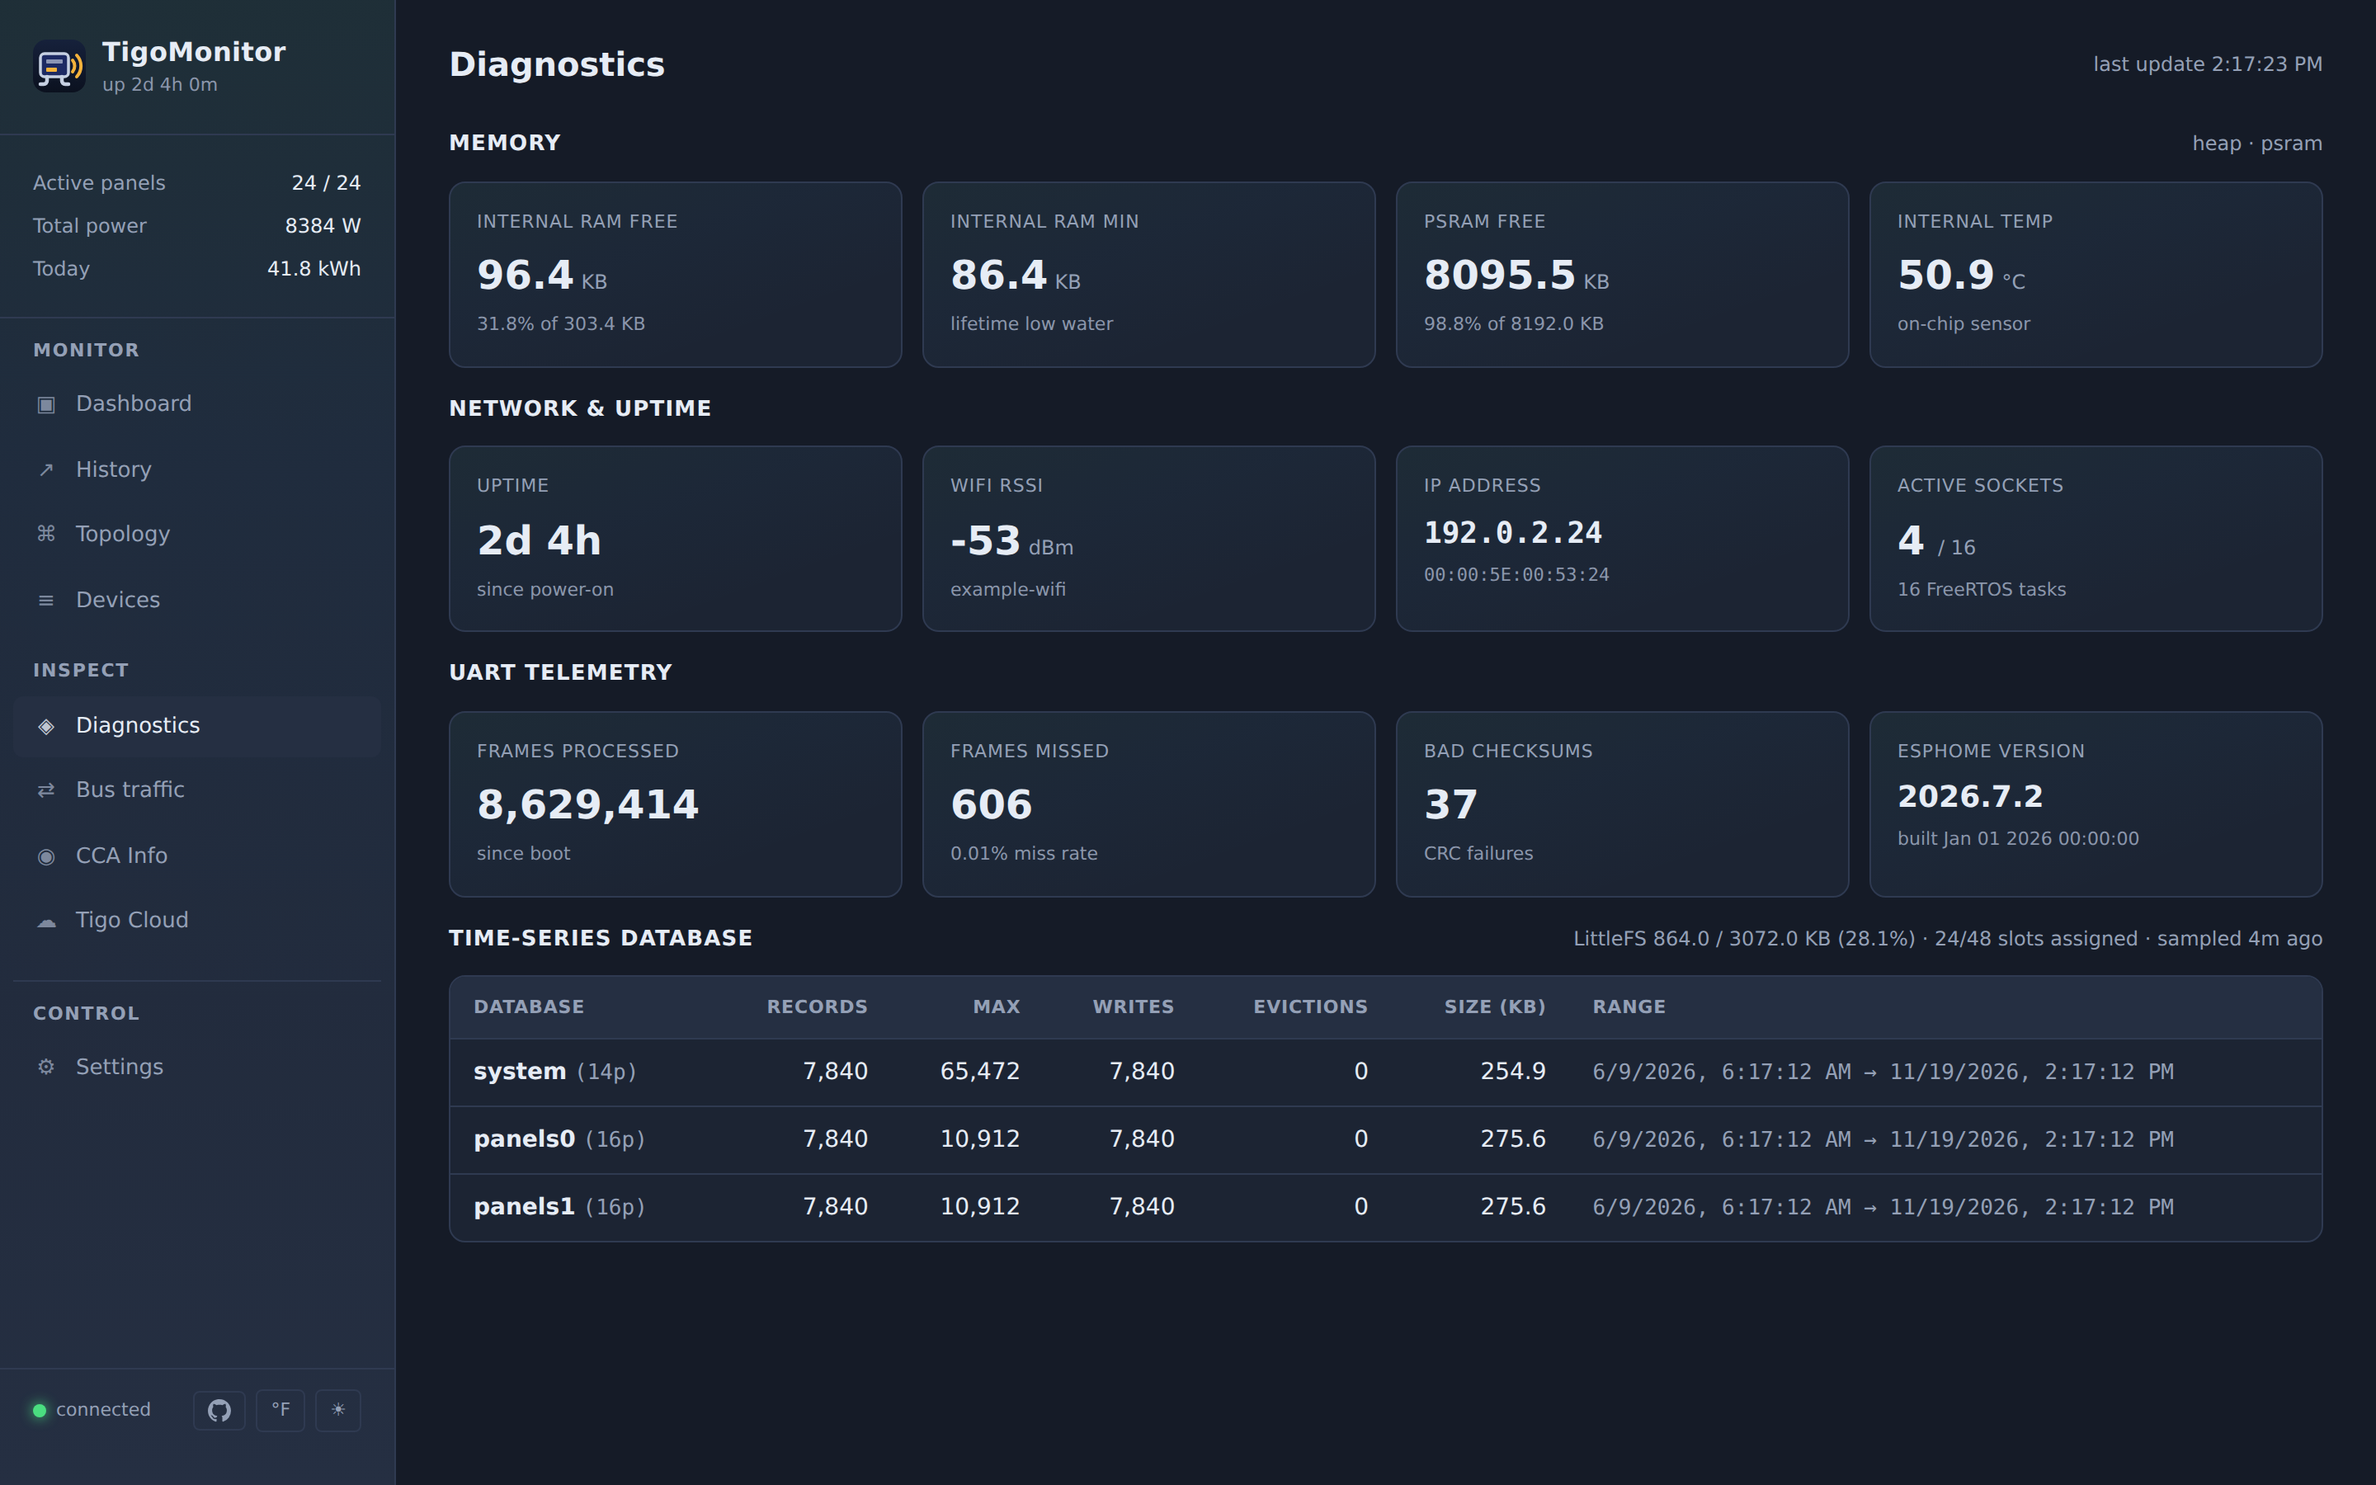
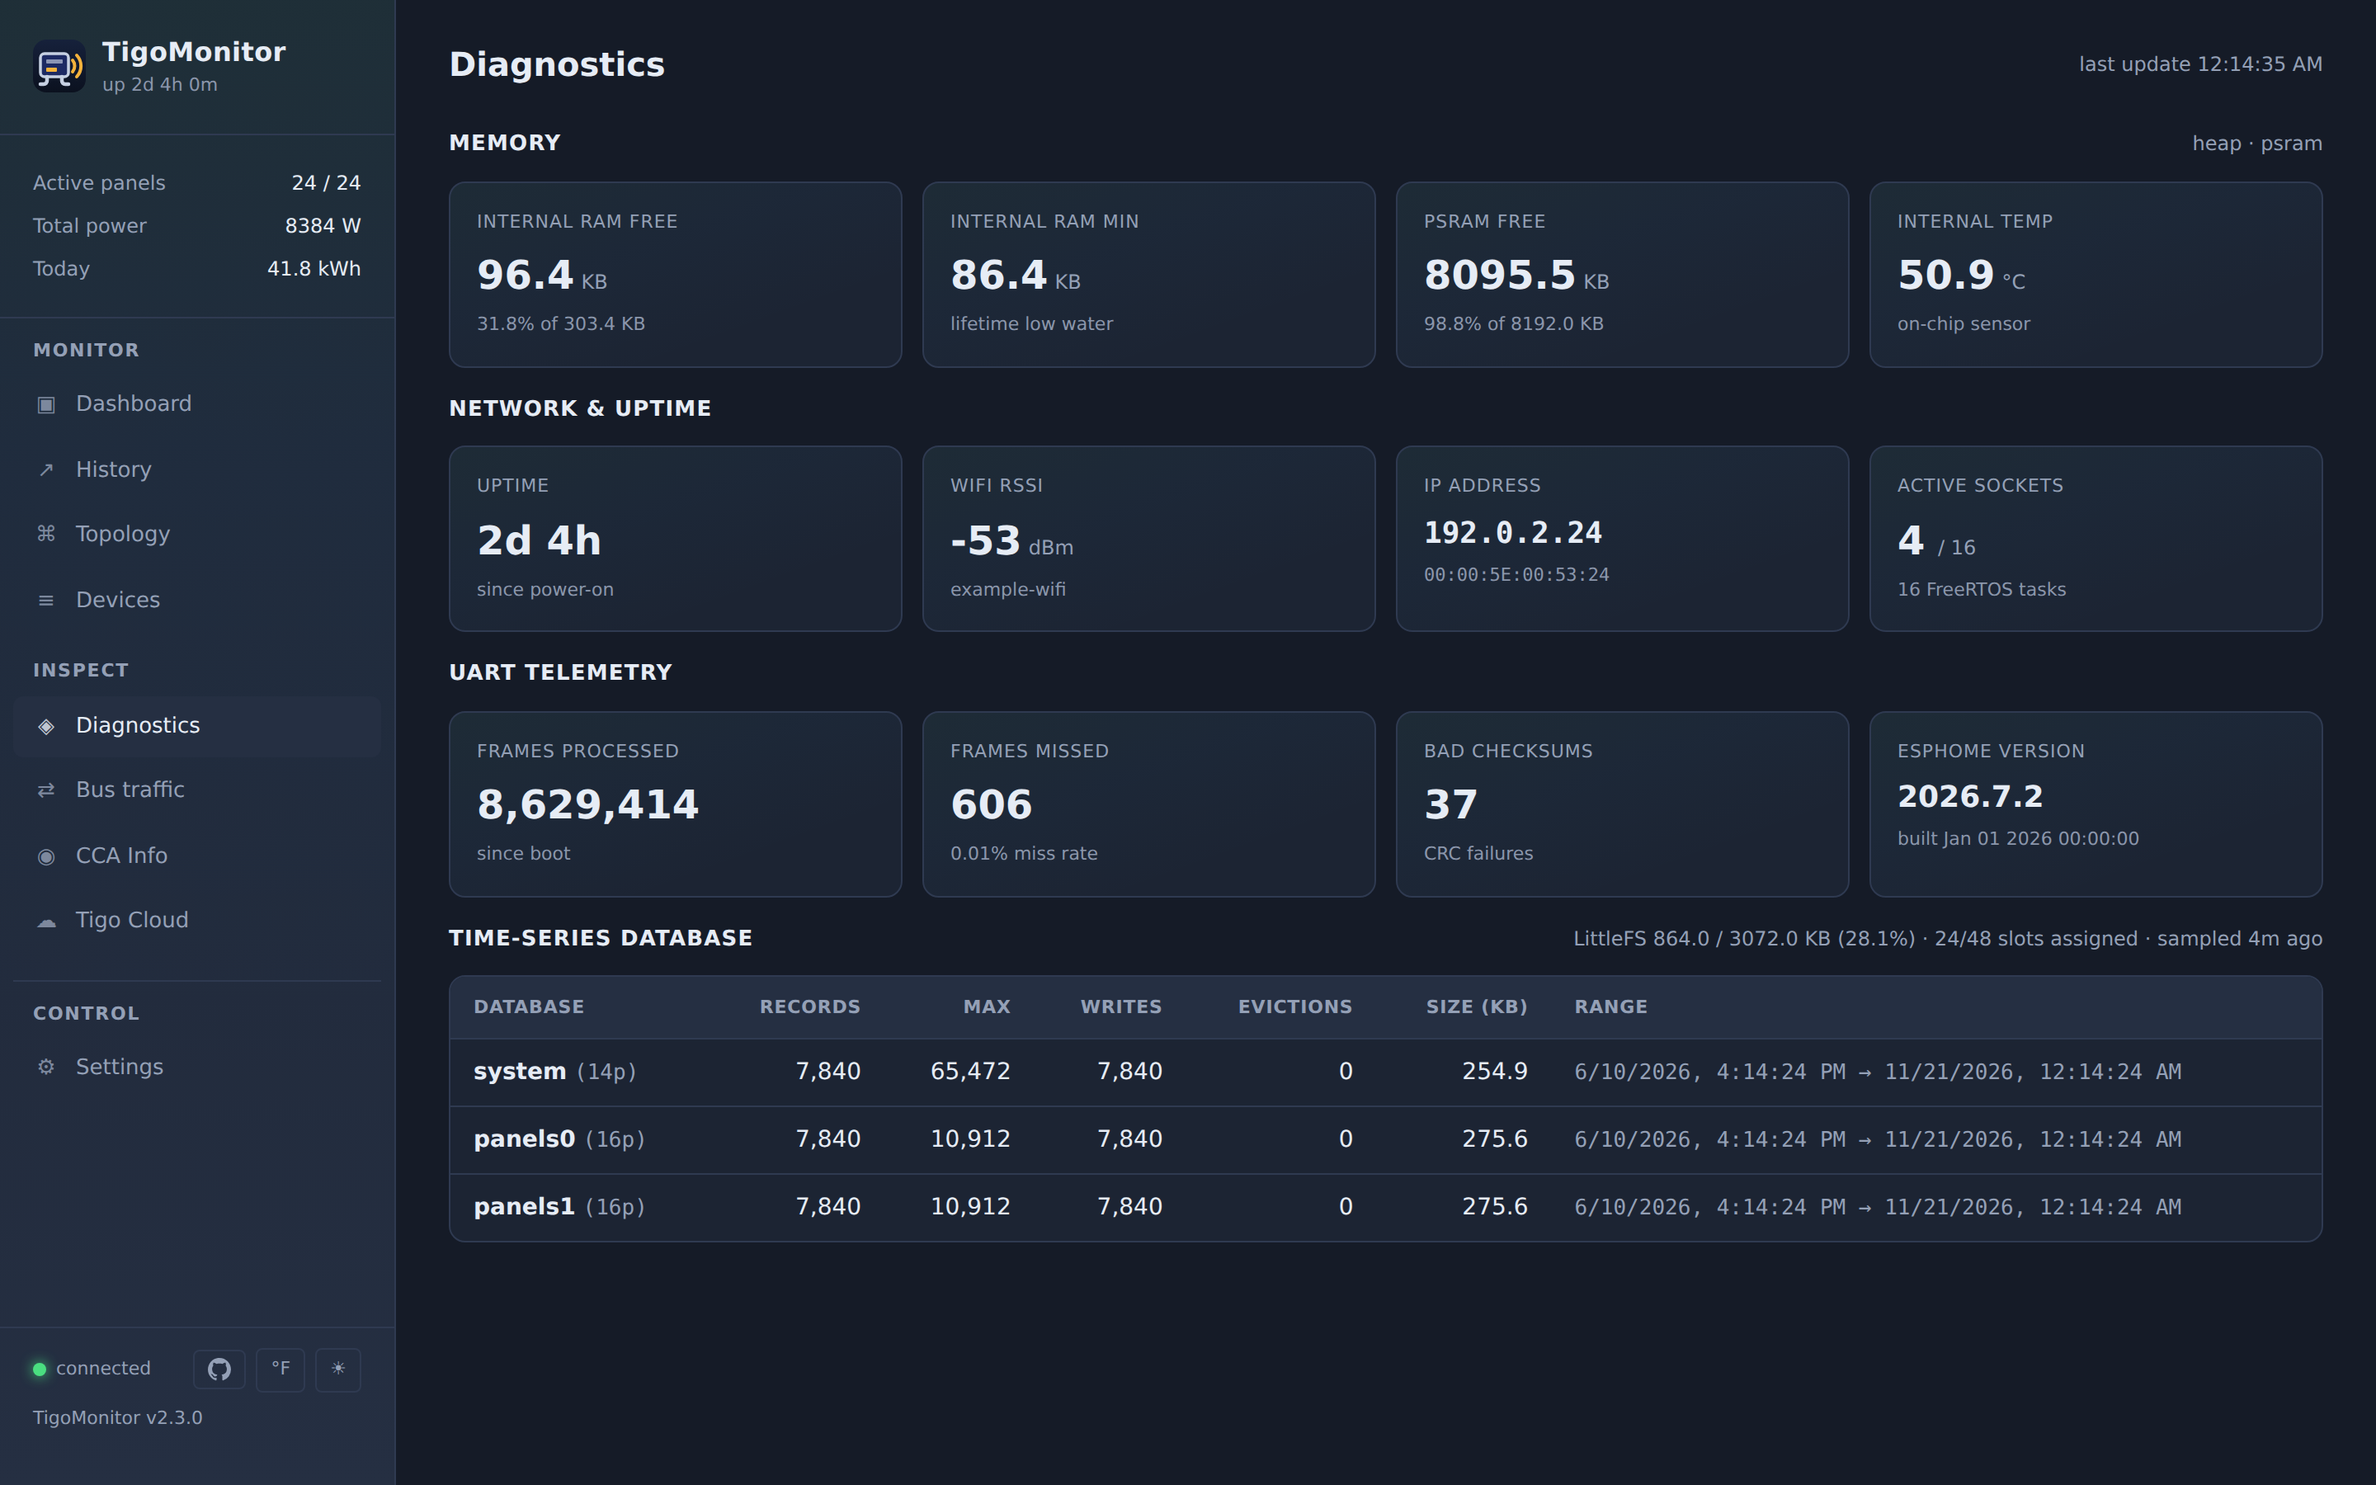
feat(web): show TigoMonitor's version in the sidebar, on the ESP32 too
The sidebar now shows "TigoMonitor v2.3.0" under the connection row,
and a release links to its notes. The Pi knew its version (CI's git
describe); the ESP32 knew only ESPHome's, and kept no version of its
own by design: the tag is the version.

The ESP32 now works it out at compile time (tigo_server/
build_version.py). git describe works in a full checkout (a local
path: source), written as the Pi's CI writes it (2.3.0+1.g8632d50,
+local when dirty). ESPHome fetches a git source as a shallow clone
with no tags, so there describe fails and the version is the ref the
config pinned (v2.3.0 -> 2.3.0), or the ref and the commit it fetched
(main · 8632d50). It's only read from this repo's own git, never from
a config repo the files were copied into, and stripped to
[A-Za-z0-9._+/-] before it reaches the JSON. Both builds report it as
tigomonitor_version in /api/status; esphome_version is unchanged.

Verified:
- build_version_test (11 cases) failed before build_version.py existed
  and passes; build.sh runs it, and the Pi build and every host test
  pass in the dev container.
- Site tests 269/269, three new: a release linked on both builds, a
  branch or between-release build unlinked, and no line when the
  firmware reports none. They were written after the page change.
- The rig config compiles; the generated code sets "2.3.0+local".
- Screenshots refreshed; the sidebar reads "TigoMonitor v2.3.0".
Not yet: a compile from a git source (pending the push), or a flash.

diff --git a/components/tigo_server/web/app.html b/components/tigo_server/web/app.html
@@ -139,6 +139,10 @@
 
   .conn { padding: 12px 20px; border-top: 1px solid var(--border); font-size: 11px; color: var(--text-dim); display: flex; justify-content: space-between; align-items: center; }
   .pill { display: inline-flex; align-items: center; gap: 6px; }
+  /* TigoMonitor's version, under the connection row: a release links to its notes. */
+  .app-version { padding: 0 20px 12px; margin-top: -4px; font-size: 11px; color: var(--text-dim); font-variant-numeric: tabular-nums; }
+  .app-version a { color: inherit; text-decoration: none; }
+  .app-version a:hover, .app-version a:focus-visible { color: var(--text); text-decoration: underline; }
   /* The sidebar's PV output state, on every page. Off is the state that must
      be noticed: it turns red and its dot pulses. */
   .pv-pill { display: flex; align-items: center; gap: 9px; margin: 8px 12px; padding: 8px 10px 8px 12px;
@@ -1540,6 +1544,7 @@
         <button class="theme-toggle" id="theme-toggle" title="Toggle light/dark">☀</button>
       </span>
     </div>
+    <div class="app-version" id="app-version" hidden></div>
   </aside>
 
   <!-- ===== Main content ===== -->
@@ -3351,9 +3356,32 @@
   }
   setInterval(refreshDashboard, 5000);
 
+  // TigoMonitor's version under the sidebar's connection row: "2.3.0" from a
+  // release (linked to its notes), "2.3.0+1.g8632d50" between releases, or a
+  // branch and commit ("main · 8632d50") on an ESP32 built from one.
+  function showAppVersion(v) {
+    const el = document.getElementById('app-version');
+    if (!v) return;
+    const shown = /^\d/.test(v) ? `v${v}` : v;
+    el.textContent = 'TigoMonitor ';
+    if (/^\d+\.\d+\.\d+(-[0-9A-Za-z.]+)?$/.test(v)) {
+      const a = document.createElement('a');
+      a.href = `https://github.com/RAR/esphome-tigomonitor/releases/tag/v${v}`;
+      a.target = '_blank';
+      a.rel = 'noopener';
+      a.title = 'Release notes';
+      a.textContent = shown;
+      el.append(a);
+    } else {
+      el.append(shown);
+    }
+    el.hidden = false;
+  }
+
   // Once the platform is known (below), the Pi's and the ESP32's pages
   // differ: swap the ESP32-only Settings tabs for the Pi's.
   const platformReady = apiFetch('/api/status').then(r => r.ok ? r.json() : {}).then(s => {
+    showAppVersion(s.tigomonitor_version);
     if (s.platform !== 'linux') return;
     PLATFORM = 'linux';
     apiFetch('/api/settings').then(r => r.ok ? r.json() : null).then(st => { if (st) piApplyPages(st); }).catch(() => {});

diff --git a/components/tigo_server/build_version.py b/components/tigo_server/build_version.py
@@ -1,0 +1,65 @@
+"""TigoMonitor's version for the ESP32 firmware, worked out at compile time.
+
+The Pi's daemon is built from a full checkout, so CI takes `git describe`
+(2.3.0, or 2.3.0+1.g8632d50 between releases). ESPHome fetches a git
+external component as a shallow clone with no tags, so describe fails there.
+Then the version is the `ref:` the config pinned (v2.3.0), or the ref and
+the commit it fetched (main · 8632d50). A local `path:` checkout describes
+like the Pi. Nothing is bumped at release time: the tag is the version.
+"""
+import re
+import subprocess
+from pathlib import Path
+
+# What the version may carry into the JSON and the page.
+_SAFE = re.compile(r"[^A-Za-z0-9._+/-]")
+_DESCRIBE = re.compile(r"v?(?P<tag>.+?)(?:-(?P<n>\d+)-g(?P<sha>[0-9a-f]+))?(?P<dirty>-dirty)?")
+_RELEASE = re.compile(r"v?\d+\.\d+\.\d+\S*")
+
+
+def version_from(describe, ref, sha):
+    """describe: `git describe --tags --dirty` (None if it failed); ref: the
+    external_components ref (None for a local path); sha: the short commit."""
+    if describe:
+        m = _DESCRIBE.fullmatch(describe.strip())
+        v = m.group("tag")
+        if m.group("n"):
+            v += f"+{m.group('n')}.g{m.group('sha')}"
+        if m.group("dirty"):
+            v += "+local"
+        return _SAFE.sub("", v)
+    ref = _SAFE.sub("", ref or "")
+    sha = _SAFE.sub("", sha or "")
+    if ref and _RELEASE.fullmatch(ref):
+        return ref[1:] if ref.startswith("v") else ref
+    if ref and sha:
+        return f"{ref} · {sha}"
+    return ref or sha
+
+
+def _git(root, *args):
+    try:
+        r = subprocess.run(["git", "-C", str(root), *args], capture_output=True, text=True, timeout=10)
+    except (OSError, subprocess.SubprocessError):
+        return None
+    return r.stdout.strip() if r.returncode == 0 and r.stdout.strip() else None
+
+
+def _our_ref(config):
+    """The ref of the external_components entry that fetched this repo."""
+    for entry in config.get("external_components", []) or []:
+        source = entry.get("source") or {}
+        if source.get("type") == "git" and "tigomonitor" in str(source.get("url", "")):
+            return source.get("ref")
+    return None
+
+
+def version(config):
+    """The version string for this build, or "" if it can't be told."""
+    root = Path(__file__).resolve().parents[2]  # <repo>/components/tigo_server/
+    top = _git(root, "rev-parse", "--show-toplevel")
+    # Only this repo's own git: not a config repo the files were copied into.
+    if top is None or Path(top).resolve() != root:
+        return version_from(None, _our_ref(config), None)
+    return version_from(_git(root, "describe", "--tags", "--dirty"), _our_ref(config),
+                        _git(root, "rev-parse", "--short", "HEAD"))

diff --git a/tests/host/build_version_test.py b/tests/host/build_version_test.py
@@ -1,0 +1,37 @@
+"""The ESP32's TigoMonitor version, as components/tigo_server/build_version.py
+works it out at compile time. Run: python3 -I tests/host/build_version_test.py"""
+import importlib.util
+import pathlib
+import sys
+
+root = pathlib.Path(__file__).resolve().parents[2]
+spec = importlib.util.spec_from_file_location("build_version", root / "components/tigo_server/build_version.py")
+bv = importlib.util.module_from_spec(spec)
+spec.loader.exec_module(bv)
+
+cases = [
+    # A full checkout: git describe, written as the Pi's CI writes it.
+    (("v2.3.0", None, None), "2.3.0"),
+    (("v2.3.0-1-g8632d50", None, None), "2.3.0+1.g8632d50"),
+    (("v2.3.0-1-g8632d50-dirty", None, None), "2.3.0+1.g8632d50+local"),
+    (("v2.0.0-rc.1-3-gabc1234", None, None), "2.0.0-rc.1+3.gabc1234"),
+    # ESPHome's shallow clone has no tags: the external_components ref.
+    ((None, "v2.3.0", "8632d50"), "2.3.0"),
+    ((None, "2.3.0", "8632d50"), "2.3.0"),
+    ((None, "main", "8632d50"), "main · 8632d50"),
+    ((None, "feature/x", "8632d50"), "feature/x · 8632d50"),
+    # A ref with characters the JSON and the page shouldn't carry.
+    ((None, 'ma"in<b>', "8632d50"), "mainb · 8632d50"),
+    ((None, None, "8632d50"), "8632d50"),
+    ((None, None, None), ""),
+]
+
+failed = 0
+for args, want in cases:
+    got = bv.version_from(*args)
+    if got != want:
+        failed += 1
+        print(f"FAIL version_from{args!r}: got {got!r}, want {want!r}")
+if failed:
+    sys.exit(1)
+print(f"build_version_test: all passed ({len(cases)})")

diff --git a/components/tigo_server/tigo_web_server.cpp b/components/tigo_server/tigo_web_server.cpp
@@ -3719,7 +3719,7 @@ void TigoWebServer::build_esp_status_json(PSRAMString& json) {
     "{\"free_heap\":%zu,\"total_heap\":%zu,\"free_psram\":%zu,\"total_psram\":%zu,"
     "\"min_free_heap\":%zu,\"min_free_psram\":%zu,"
     "\"uptime_sec\":%u,\"uptime_days\":%u,\"uptime_hours\":%u,\"uptime_mins\":%u,"
-    "\"esphome_version\":\"%s\",\"compilation_time\":\"%s %s\","
+    "\"tigomonitor_version\":\"%s\",\"esphome_version\":\"%s\",\"compilation_time\":\"%s %s\","
     "\"task_count\":%u,\"internal_temp\":%s,"
     "\"invalid_checksum\":%u,\"missed_frames\":%u,\"total_frames\":%u,"
     "\"command_frames\":%u,\"frame_27_count\":%u,"
@@ -3728,7 +3728,7 @@ void TigoWebServer::build_esp_status_json(PSRAMString& json) {
     free_heap, total_heap, free_psram, total_psram,
     min_free_heap, min_free_psram,
     (unsigned) uptime_sec, (unsigned) uptime_days, (unsigned) uptime_hours, (unsigned) uptime_mins,
-    ESPHOME_VERSION, __DATE__, __TIME__,
+    version_, ESPHOME_VERSION, __DATE__, __TIME__,
     (unsigned int)task_count, temp_str,
     (unsigned) invalid_checksum, (unsigned) missed_frames, (unsigned) total_frames,
     (unsigned) command_frames, (unsigned) frame_27_count,

diff --git a/components/tigo_server/tigo_web_server.h b/components/tigo_server/tigo_web_server.h
@@ -126,6 +126,8 @@ class TigoWebServer : public Component
   float get_setup_priority() const override { return setup_priority::WIFI - 1.0f; }
   
   void set_port(uint16_t port) { port_ = port; }
+  // TigoMonitor's version (tigo_server/build_version.py), "" if unknown.
+  void set_version(const char *version) { version_ = version; }
   uint16_t get_port() const { return port_; }
   
   void set_api_token(const std::string &token) { api_token_ = token; }
@@ -142,6 +144,7 @@ class TigoWebServer : public Component
   light::LightState *backlight_{nullptr};
   httpd_handle_t server_{nullptr};
   uint16_t port_{80};
+  const char *version_{""};
   std::string api_token_{""};
   std::string web_username_{""};
   std::string web_password_{""};

diff --git a/components/tigo_server/__init__.py b/components/tigo_server/__init__.py
@@ -246,6 +246,12 @@ async def to_code(config):
     # Set the port
     cg.add(var.set_port(config[CONF_PORT]))
 
+    # TigoMonitor's own version, for the page's sidebar (build_version.py):
+    # the git tag or ref this build came from. ESPHome's own version stays
+    # in /api/status as esphome_version.
+    from . import build_version
+    cg.add(var.set_version(build_version.version(CORE.config)))
+
     # Set the API token if provided
     if CONF_API_TOKEN in config:
         cg.add(var.set_api_token(config[CONF_API_TOKEN]))

diff --git a/linux/src/http_server.cpp b/linux/src/http_server.cpp
@@ -1330,6 +1330,7 @@ void HttpServer::routes_() {
                     {"uptime_days", up / 86400},
                     {"uptime_hours", (up / 3600) % 24},
                     {"uptime_mins", (up / 60) % 60},
+                    {"tigomonitor_version", ctx_.version},
                     {"esphome_version", "tigomonitord " + ctx_.version},
                     {"compilation_time", __DATE__ " " __TIME__},
                     {"internal_temp", cpu_temp()},

diff --git a/CLAUDE.md b/CLAUDE.md
@@ -117,4 +117,4 @@ Fuzzy barcode matching (`match_barcode()`): compares last 6 chars of UART-discov
 1. Update `CHANGELOG.md` under `## [Unreleased]` (group by Added/Fixed/Changed/Removed).
 2. Move the `## [Unreleased]` entries under a new `## [X.Y.Z]` heading, create an annotated tag `vX.Y.Z`, push, and create the GitHub release.
 
-(The web UI shows ESPHome's own version via `esphome/core/version.h` — there is no project-specific version constant to bump.)
+(There is no version constant to bump: the tag is the version. The Pi's CI builds it from `git describe`. The ESP32 works it out at compile time in `components/tigo_server/build_version.py`, from the `ref:` its config pinned. Both report it as `tigomonitor_version` in `/api/status`, and the sidebar shows it. ESPHome's own version stays in `esphome_version`.)

diff --git a/CHANGELOG.md b/CHANGELOG.md
@@ -7,6 +7,15 @@ and this project adheres to [Semantic Versioning](https://semver.org/spec/v2.0.0
 
 ## [Unreleased]
 
+### Added
+
+- **The sidebar shows which TigoMonitor you're running.** It appears under
+  the connection row, as `TigoMonitor v2.3.0`, and a release links to its
+  notes. The Pi already knew its version. The ESP32 now works its version
+  out when it's compiled: an ESP32 pinned to a release shows the release;
+  one built from a branch shows the branch and commit (`main · 8632d50`).
+  `/api/status` carries it as `tigomonitor_version` on both builds.
+
 ## [2.3.0] - 2026-11-20
 
 ### Added
